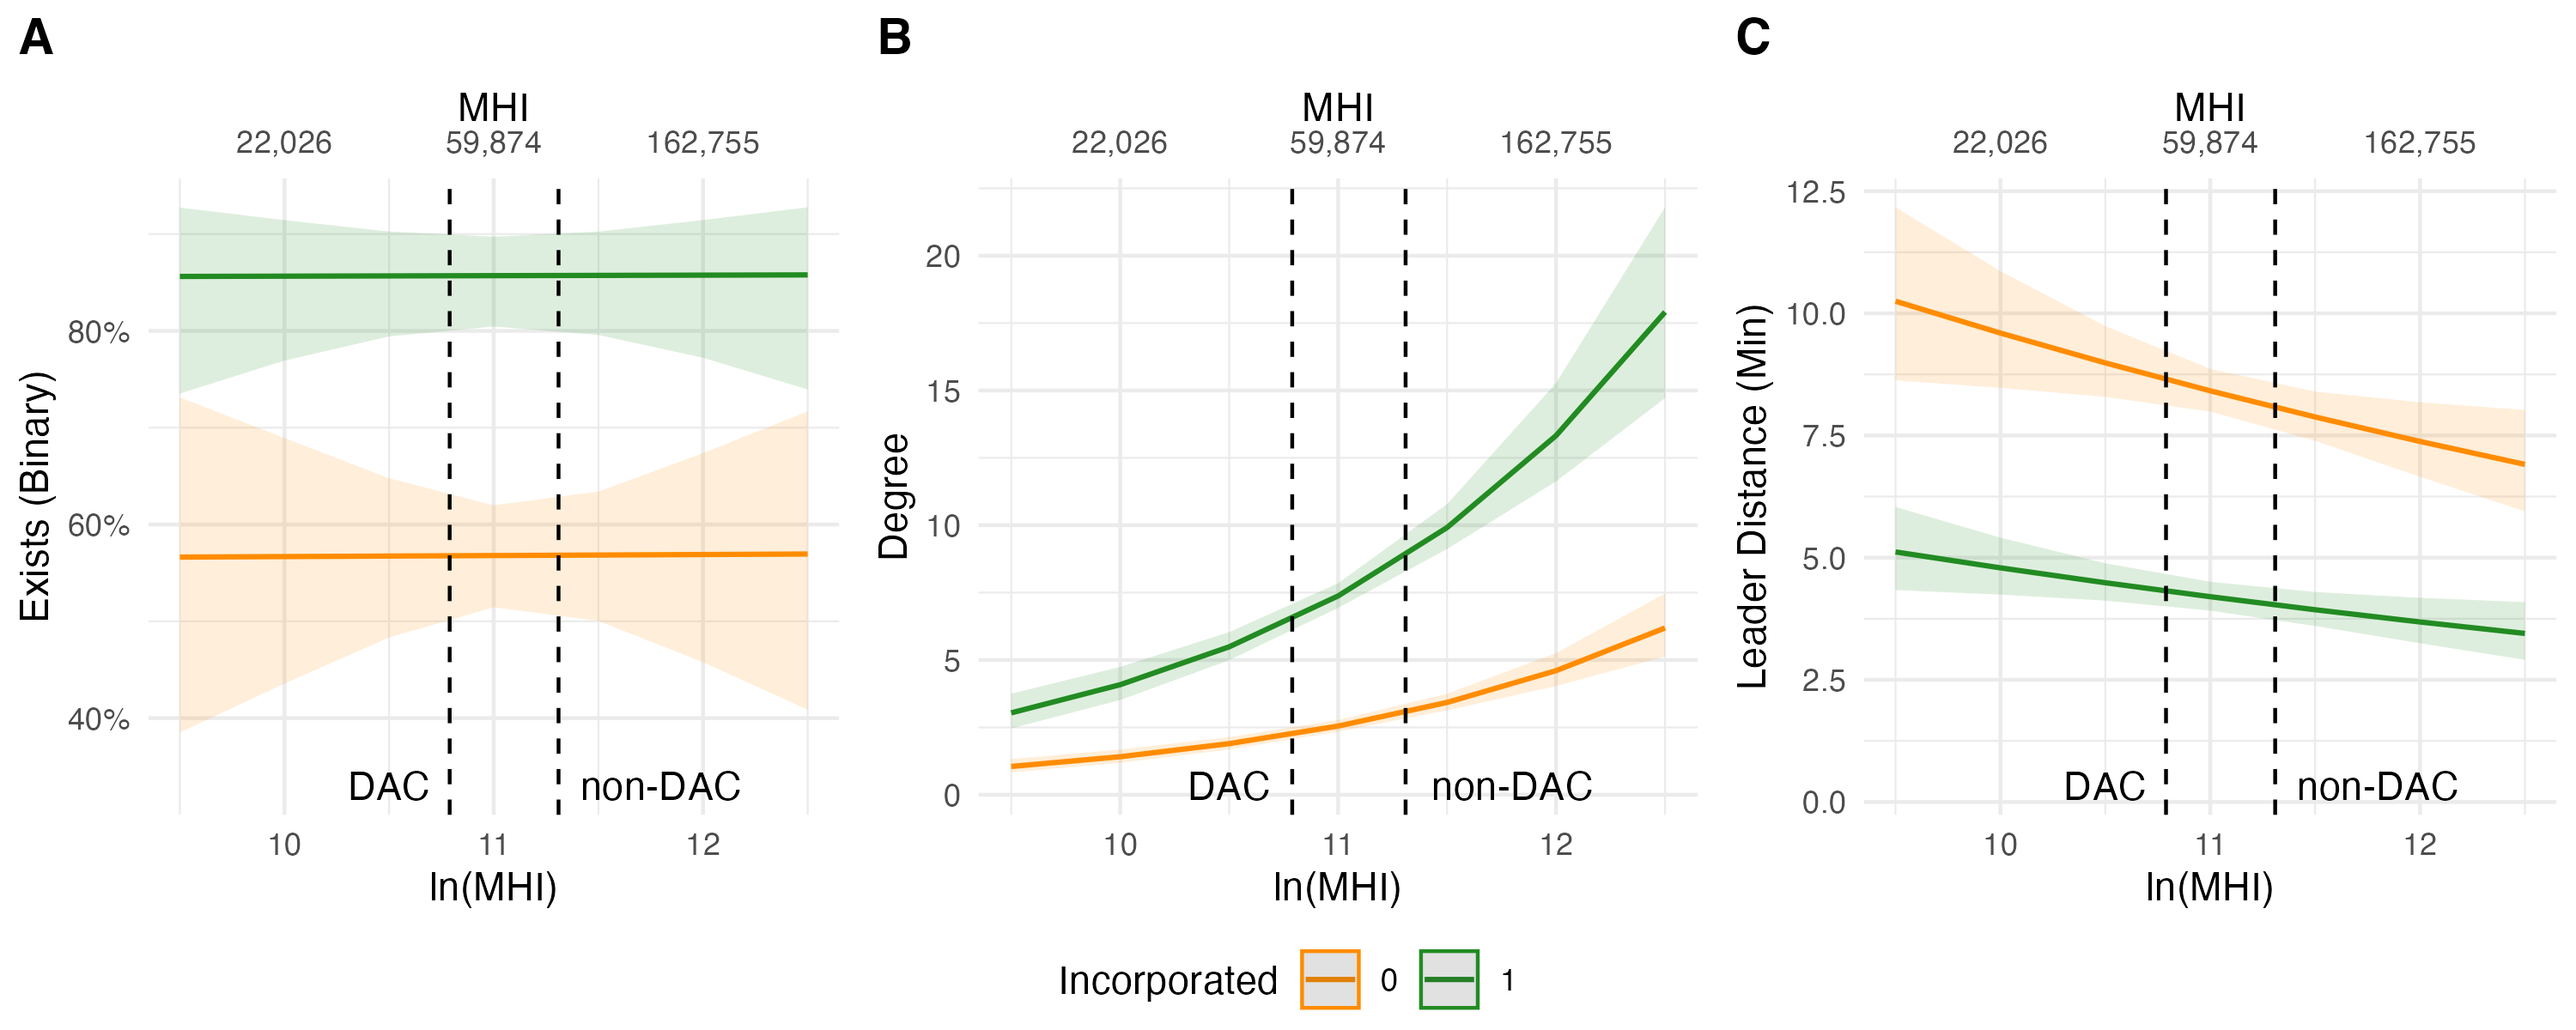
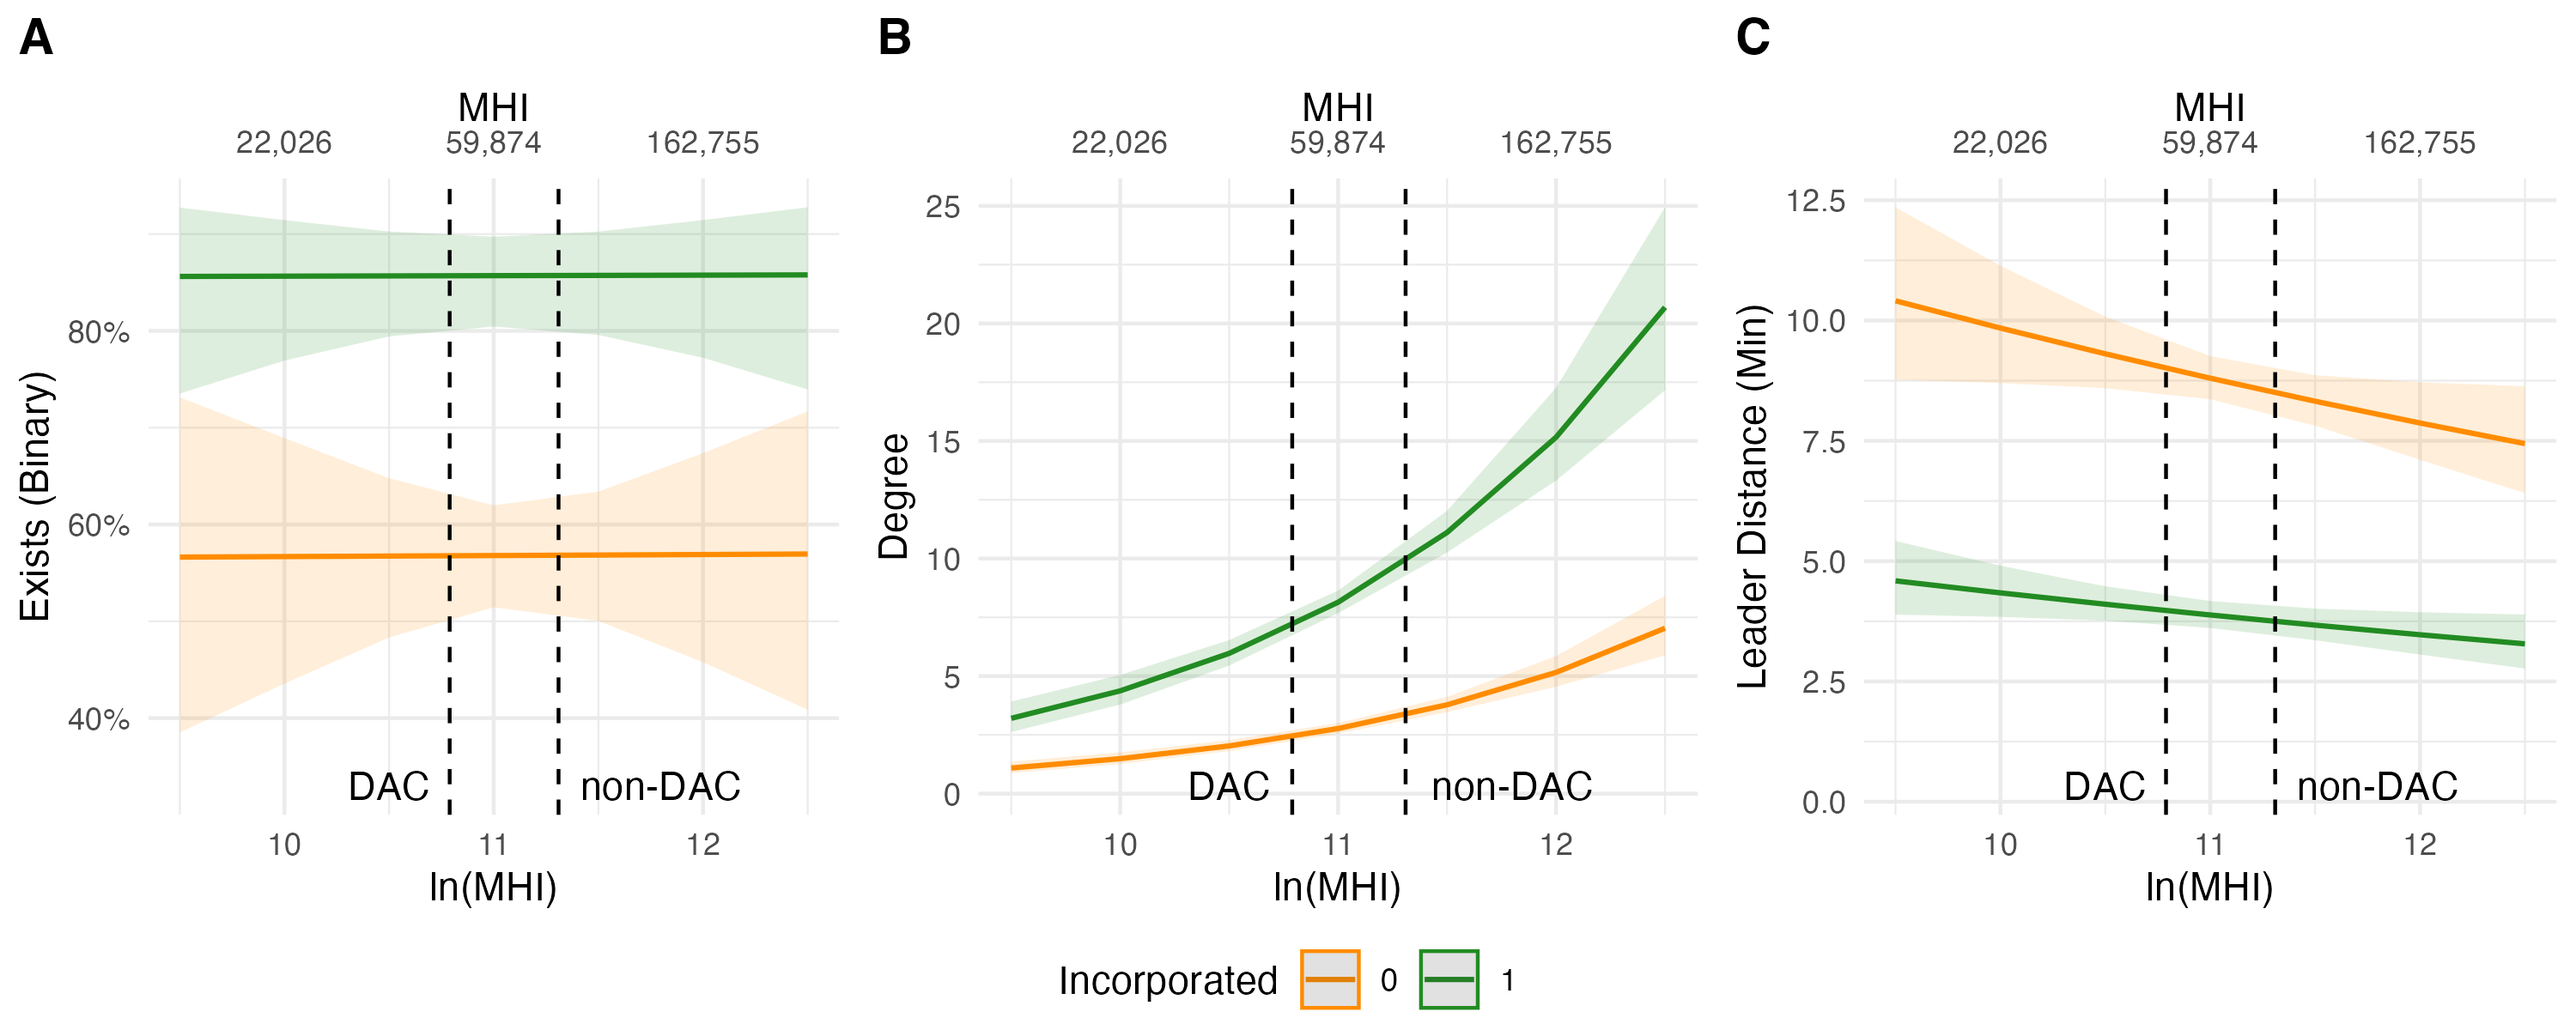
quick mods to make files run, regenerate new tables and results figure based on rerun

diff --git a/EJ_DAC_Paper/Out/mods/h2_degree.html b/EJ_DAC_Paper/Out/mods/h2_degree.html
@@ -3,26 +3,26 @@
 <tr><td></td><td colspan="2" style="border-bottom: 1px solid black"></td></tr>
 <tr><td style="text-align:left"></td><td colspan="2">deg_w</td></tr>
 <tr><td style="text-align:left"></td><td>(1)</td><td>(2)</td></tr>
-<tr><td colspan="3" style="border-bottom: 1px solid black"></td></tr><tr><td style="text-align:left">DAC</td><td>-0.217<sup>***</sup></td><td></td></tr>
-<tr><td style="text-align:left"></td><td>(0.042)</td><td></td></tr>
+<tr><td colspan="3" style="border-bottom: 1px solid black"></td></tr><tr><td style="text-align:left">DAC</td><td>-0.226<sup>***</sup></td><td></td></tr>
+<tr><td style="text-align:left"></td><td>(0.040)</td><td></td></tr>
 <tr><td style="text-align:left"></td><td></td><td></td></tr>
-<tr><td style="text-align:left">MHI_log</td><td></td><td>0.591<sup>***</sup></td></tr>
-<tr><td style="text-align:left"></td><td></td><td>(0.066)</td></tr>
+<tr><td style="text-align:left">MHI_log</td><td></td><td>0.622<sup>***</sup></td></tr>
+<tr><td style="text-align:left"></td><td></td><td>(0.063)</td></tr>
 <tr><td style="text-align:left"></td><td></td><td></td></tr>
-<tr><td style="text-align:left">POP_log</td><td>0.115<sup>***</sup></td><td>0.126<sup>***</sup></td></tr>
-<tr><td style="text-align:left"></td><td>(0.013)</td><td>(0.013)</td></tr>
+<tr><td style="text-align:left">POP_log</td><td>0.114<sup>***</sup></td><td>0.127<sup>***</sup></td></tr>
+<tr><td style="text-align:left"></td><td>(0.012)</td><td>(0.013)</td></tr>
 <tr><td style="text-align:left"></td><td></td><td></td></tr>
-<tr><td style="text-align:left">incorporated</td><td>1.033<sup>***</sup></td><td>1.063<sup>***</sup></td></tr>
-<tr><td style="text-align:left"></td><td>(0.056)</td><td>(0.058)</td></tr>
+<tr><td style="text-align:left">incorporated</td><td>1.043<sup>***</sup></td><td>1.078<sup>***</sup></td></tr>
+<tr><td style="text-align:left"></td><td>(0.053)</td><td>(0.055)</td></tr>
 <tr><td style="text-align:left"></td><td></td><td></td></tr>
-<tr><td style="text-align:left">per_latino</td><td>0.002<sup>***</sup></td><td>0.005<sup>***</sup></td></tr>
+<tr><td style="text-align:left">per_latino</td><td>0.002<sup>***</sup></td><td>0.006<sup>***</sup></td></tr>
 <tr><td style="text-align:left"></td><td>(0.001)</td><td>(0.001)</td></tr>
 <tr><td style="text-align:left"></td><td></td><td></td></tr>
-<tr><td style="text-align:left">Constant</td><td>0.023</td><td>-6.915<sup>***</sup></td></tr>
-<tr><td style="text-align:left"></td><td>(0.111)</td><td>(0.747)</td></tr>
+<tr><td style="text-align:left">Constant</td><td>0.113</td><td>-7.211<sup>***</sup></td></tr>
+<tr><td style="text-align:left"></td><td>(0.105)</td><td>(0.714)</td></tr>
 <tr><td style="text-align:left"></td><td></td><td></td></tr>
-<tr><td colspan="3" style="border-bottom: 1px solid black"></td></tr><tr><td style="text-align:left">Observations</td><td>560</td><td>515</td></tr>
-<tr><td style="text-align:left">Log Likelihood</td><td>-2,945.043</td><td>-2,784.534</td></tr>
-<tr><td style="text-align:left">Akaike Inf. Crit.</td><td>5,900.086</td><td>5,579.067</td></tr>
+<tr><td colspan="3" style="border-bottom: 1px solid black"></td></tr><tr><td style="text-align:left">Observations</td><td>559</td><td>514</td></tr>
+<tr><td style="text-align:left">Log Likelihood</td><td>-3,130.682</td><td>-2,952.612</td></tr>
+<tr><td style="text-align:left">Akaike Inf. Crit.</td><td>6,271.364</td><td>5,915.223</td></tr>
 <tr><td colspan="3" style="border-bottom: 1px solid black"></td></tr><tr><td style="text-align:left"><em>Note:</em></td><td colspan="2" style="text-align:right"><sup>*</sup>p<0.1; <sup>**</sup>p<0.05; <sup>***</sup>p<0.01</td></tr>
 </table>

diff --git a/EJ_DAC_Paper/Out/mods/h3_leader.html b/EJ_DAC_Paper/Out/mods/h3_leader.html
@@ -3,26 +3,26 @@
 <tr><td></td><td colspan="2" style="border-bottom: 1px solid black"></td></tr>
 <tr><td style="text-align:left"></td><td colspan="2">leader_dist_nona</td></tr>
 <tr><td style="text-align:left"></td><td>(1)</td><td>(2)</td></tr>
-<tr><td colspan="3" style="border-bottom: 1px solid black"></td></tr><tr><td style="text-align:left">DAC</td><td>0.139<sup>***</sup></td><td></td></tr>
+<tr><td colspan="3" style="border-bottom: 1px solid black"></td></tr><tr><td style="text-align:left">DAC</td><td>0.137<sup>***</sup></td><td></td></tr>
 <tr><td style="text-align:left"></td><td>(0.038)</td><td></td></tr>
 <tr><td style="text-align:left"></td><td></td><td></td></tr>
-<tr><td style="text-align:left">MHI_log</td><td></td><td>-0.131<sup>**</sup></td></tr>
+<tr><td style="text-align:left">MHI_log</td><td></td><td>-0.112<sup>**</sup></td></tr>
 <tr><td style="text-align:left"></td><td></td><td>(0.052)</td></tr>
 <tr><td style="text-align:left"></td><td></td><td></td></tr>
-<tr><td style="text-align:left">POP_log</td><td>0.030<sup>***</sup></td><td>0.047<sup>***</sup></td></tr>
+<tr><td style="text-align:left">POP_log</td><td>0.047<sup>***</sup></td><td>0.065<sup>***</sup></td></tr>
 <tr><td style="text-align:left"></td><td>(0.011)</td><td>(0.012)</td></tr>
 <tr><td style="text-align:left"></td><td></td><td></td></tr>
-<tr><td style="text-align:left">incorporated</td><td>-0.662<sup>***</sup></td><td>-0.695<sup>***</sup></td></tr>
-<tr><td style="text-align:left"></td><td>(0.049)</td><td>(0.050)</td></tr>
+<tr><td style="text-align:left">incorporated</td><td>-0.784<sup>***</sup></td><td>-0.819<sup>***</sup></td></tr>
+<tr><td style="text-align:left"></td><td>(0.049)</td><td>(0.051)</td></tr>
 <tr><td style="text-align:left"></td><td></td><td></td></tr>
-<tr><td style="text-align:left">per_latino</td><td>-0.0003</td><td>0.001</td></tr>
+<tr><td style="text-align:left">per_latino</td><td>-0.001</td><td>0.0003</td></tr>
 <tr><td style="text-align:left"></td><td>(0.001)</td><td>(0.001)</td></tr>
 <tr><td style="text-align:left"></td><td></td><td></td></tr>
-<tr><td style="text-align:left">Constant</td><td>1.807<sup>***</sup></td><td>3.126<sup>***</sup></td></tr>
-<tr><td style="text-align:left"></td><td>(0.089)</td><td>(0.574)</td></tr>
+<tr><td style="text-align:left">Constant</td><td>1.710<sup>***</sup></td><td>2.819<sup>***</sup></td></tr>
+<tr><td style="text-align:left"></td><td>(0.090)</td><td>(0.573)</td></tr>
 <tr><td style="text-align:left"></td><td></td><td></td></tr>
-<tr><td colspan="3" style="border-bottom: 1px solid black"></td></tr><tr><td style="text-align:left">Observations</td><td>560</td><td>515</td></tr>
-<tr><td style="text-align:left">Log Likelihood</td><td>-2,331.942</td><td>-2,063.497</td></tr>
-<tr><td style="text-align:left">Akaike Inf. Crit.</td><td>4,673.883</td><td>4,136.995</td></tr>
+<tr><td colspan="3" style="border-bottom: 1px solid black"></td></tr><tr><td style="text-align:left">Observations</td><td>559</td><td>514</td></tr>
+<tr><td style="text-align:left">Log Likelihood</td><td>-2,358.227</td><td>-2,087.145</td></tr>
+<tr><td style="text-align:left">Akaike Inf. Crit.</td><td>4,726.453</td><td>4,184.289</td></tr>
 <tr><td colspan="3" style="border-bottom: 1px solid black"></td></tr><tr><td style="text-align:left"><em>Note:</em></td><td colspan="2" style="text-align:right"><sup>*</sup>p<0.1; <sup>**</sup>p<0.05; <sup>***</sup>p<0.01</td></tr>
 </table>
